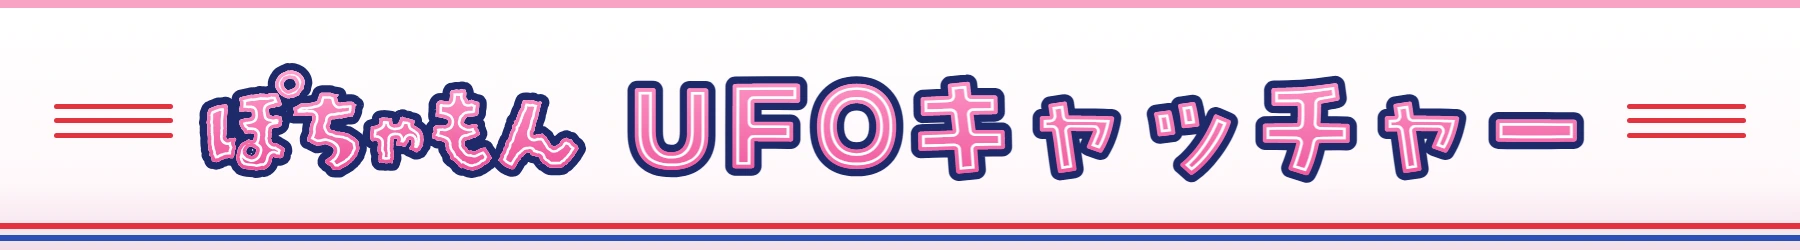
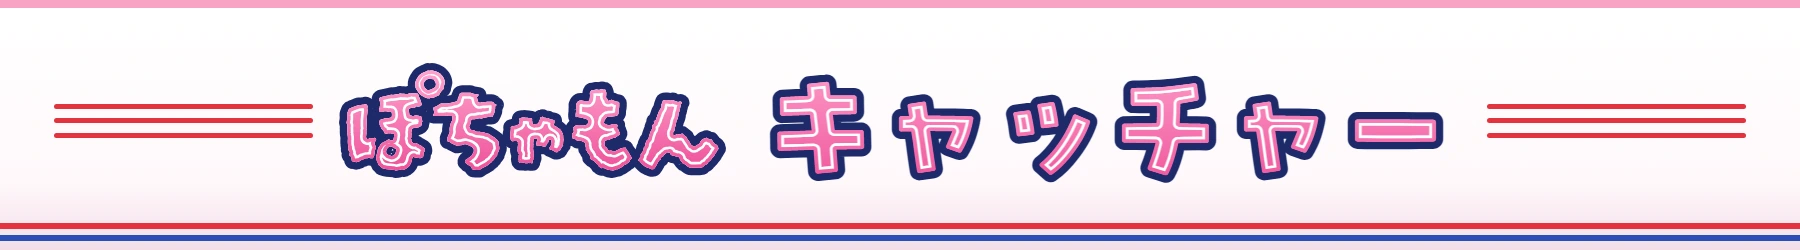
ぽちゃもんUFO：ゲームの名前を「ぽちゃもん キャッチャー」に（UFOキャッチャーはセガの登録商標）＝看板の絵・電光パネル・タブの題・ホーム画面の名前を替え、v35

Changed region(s): [[0.0933, 0.252, 0.9022, 0.728]]

diff --git a/tools/pochamon-ufo/make_retro.js b/tools/pochamon-ufo/make_retro.js
@@ -124,8 +124,9 @@ const PAGE_LIB = () => {
   await page.evaluate(({ W, H }) => {
     const sign = document.getElementById('sign');
     // 2026-10-30 本人「看板も公式のロゴに。★POCHAMON★と赤いぽちゃもんは取っていい」＝公式ロゴ＋UFOキャッチャーの1行（上の段が空いた分、看板の真ん中に大きめに）
+    // 2026-11-13 本人「ゲームはぽちゃもんキャッチャーに」＝UFOキャッチャーはセガの登録商標。看板の文字を「キャッチャー」だけにして、ロゴと合わせて「ぽちゃもん キャッチャー」と読ませる
     const fs = H * 0.46;
-    const pochi = mkLogoSvgPouch(window.__logoSvg, H * 0.4, fs), logo = mkLogo('UFOキャッチャー', 'Oshigo', fs, 'pouch');
+    const pochi = mkLogoSvgPouch(window.__logoSvg, H * 0.4, fs), logo = mkLogo('キャッチャー', 'Oshigo', fs, 'pouch');
     const lines = '<div class="lines"><i></i><i></i><i></i></div>';
     const row2 = `<div class="row2" style="top:${H * 0.08}px;height:${H * 0.74}px;padding:0 ${W * 0.03}px">${lines}${pochi.html}${logo.html}${lines}</div>`;
     const pin = `<div class="pin" style="top:${H * 0.86}px"><i style="background:#e2333f"></i><i style="background:#2b4fb5"></i></div>`;

diff --git a/main/pochamon-ufo/led.js b/main/pochamon-ufo/led.js
@@ -182,7 +182,7 @@ function wallpaper(t, a) {
 // ---------------- 正面（タイトル）の段 ----------------
 const PINK = [255, 92, 170], WHITE = [255, 255, 255], YELLOW = [255, 222, 40], CYAN = [80, 220, 255], ORANGE = [255, 150, 30], DIM = [110, 100, 140];
 // 上の段：右から左へ流れ続ける文（電光掲示板）
-const TICKER = '★ ぽちゃもん UFOキャッチャー ★ ２００円で ３かい チャレンジ！ とれた かずだけ ステッカーが もらえるよ ★ ボタンで ねらって ぬいぐるみを おとしてね ★ コインを いれて スタート！　';   // 数字は全角（11/9 本人）
+const TICKER = '★ ぽちゃもん キャッチャー ★ ２００円で ３かい チャレンジ！ とれた かずだけ ステッカーが もらえるよ ★ ボタンで ねらって ぬいぐるみを おとしてね ★ コインを いれて スタート！　';   // 数字は全角（11/9 本人）
 function ticker(t) {
   erase(0, 0, COLS, 17);
   const w = measure(TICKER), speed = 26, x0 = COLS - ((t * speed) % (w + COLS));

diff --git a/main/pochamon-ufo/index.html b/main/pochamon-ufo/index.html
@@ -5,7 +5,7 @@
   <meta name="viewport" content="width=device-width, initial-scale=1, maximum-scale=1, user-scalable=no, viewport-fit=cover">
   <meta name="apple-mobile-web-app-capable" content="yes">
   <meta name="apple-mobile-web-app-status-bar-style" content="black-translucent">
-  <meta name="apple-mobile-web-app-title" content="ぽちゃもんUFO">
+  <meta name="apple-mobile-web-app-title" content="ぽちゃもんキャッチャー">
   <meta name="mobile-web-app-capable" content="yes">
   <meta name="theme-color" content="#F98BB3">
   <meta name="robots" content="noindex">
@@ -16,7 +16,7 @@
   <link rel="manifest" href="manifest.json">
   <link rel="apple-touch-icon" href="assets/icon-180.png">
   <link rel="stylesheet" href="style.css?v=33">
-  <title>ぽちゃもん UFOキャッチャー</title>
+  <title>ぽちゃもん キャッチャー</title>
 </head>
 <body class="phase-loading">
   <canvas id="scene"></canvas>

diff --git a/main/pochamon-ufo/sw.js b/main/pochamon-ufo/sw.js
@@ -1,7 +1,7 @@
 // ぽちゃもん UFOキャッチャー Service Worker
 // 会場のオフライン対策：本体と素材を全部 precache する。
 // index.html / game.js / style.css / 素材を変えたら CACHE_NAME を bump すること（cache-first のため）。
-const CACHE_NAME = 'pochamon-ufo-v34';
+const CACHE_NAME = 'pochamon-ufo-v35';
 
 const CORE = [
   './',
